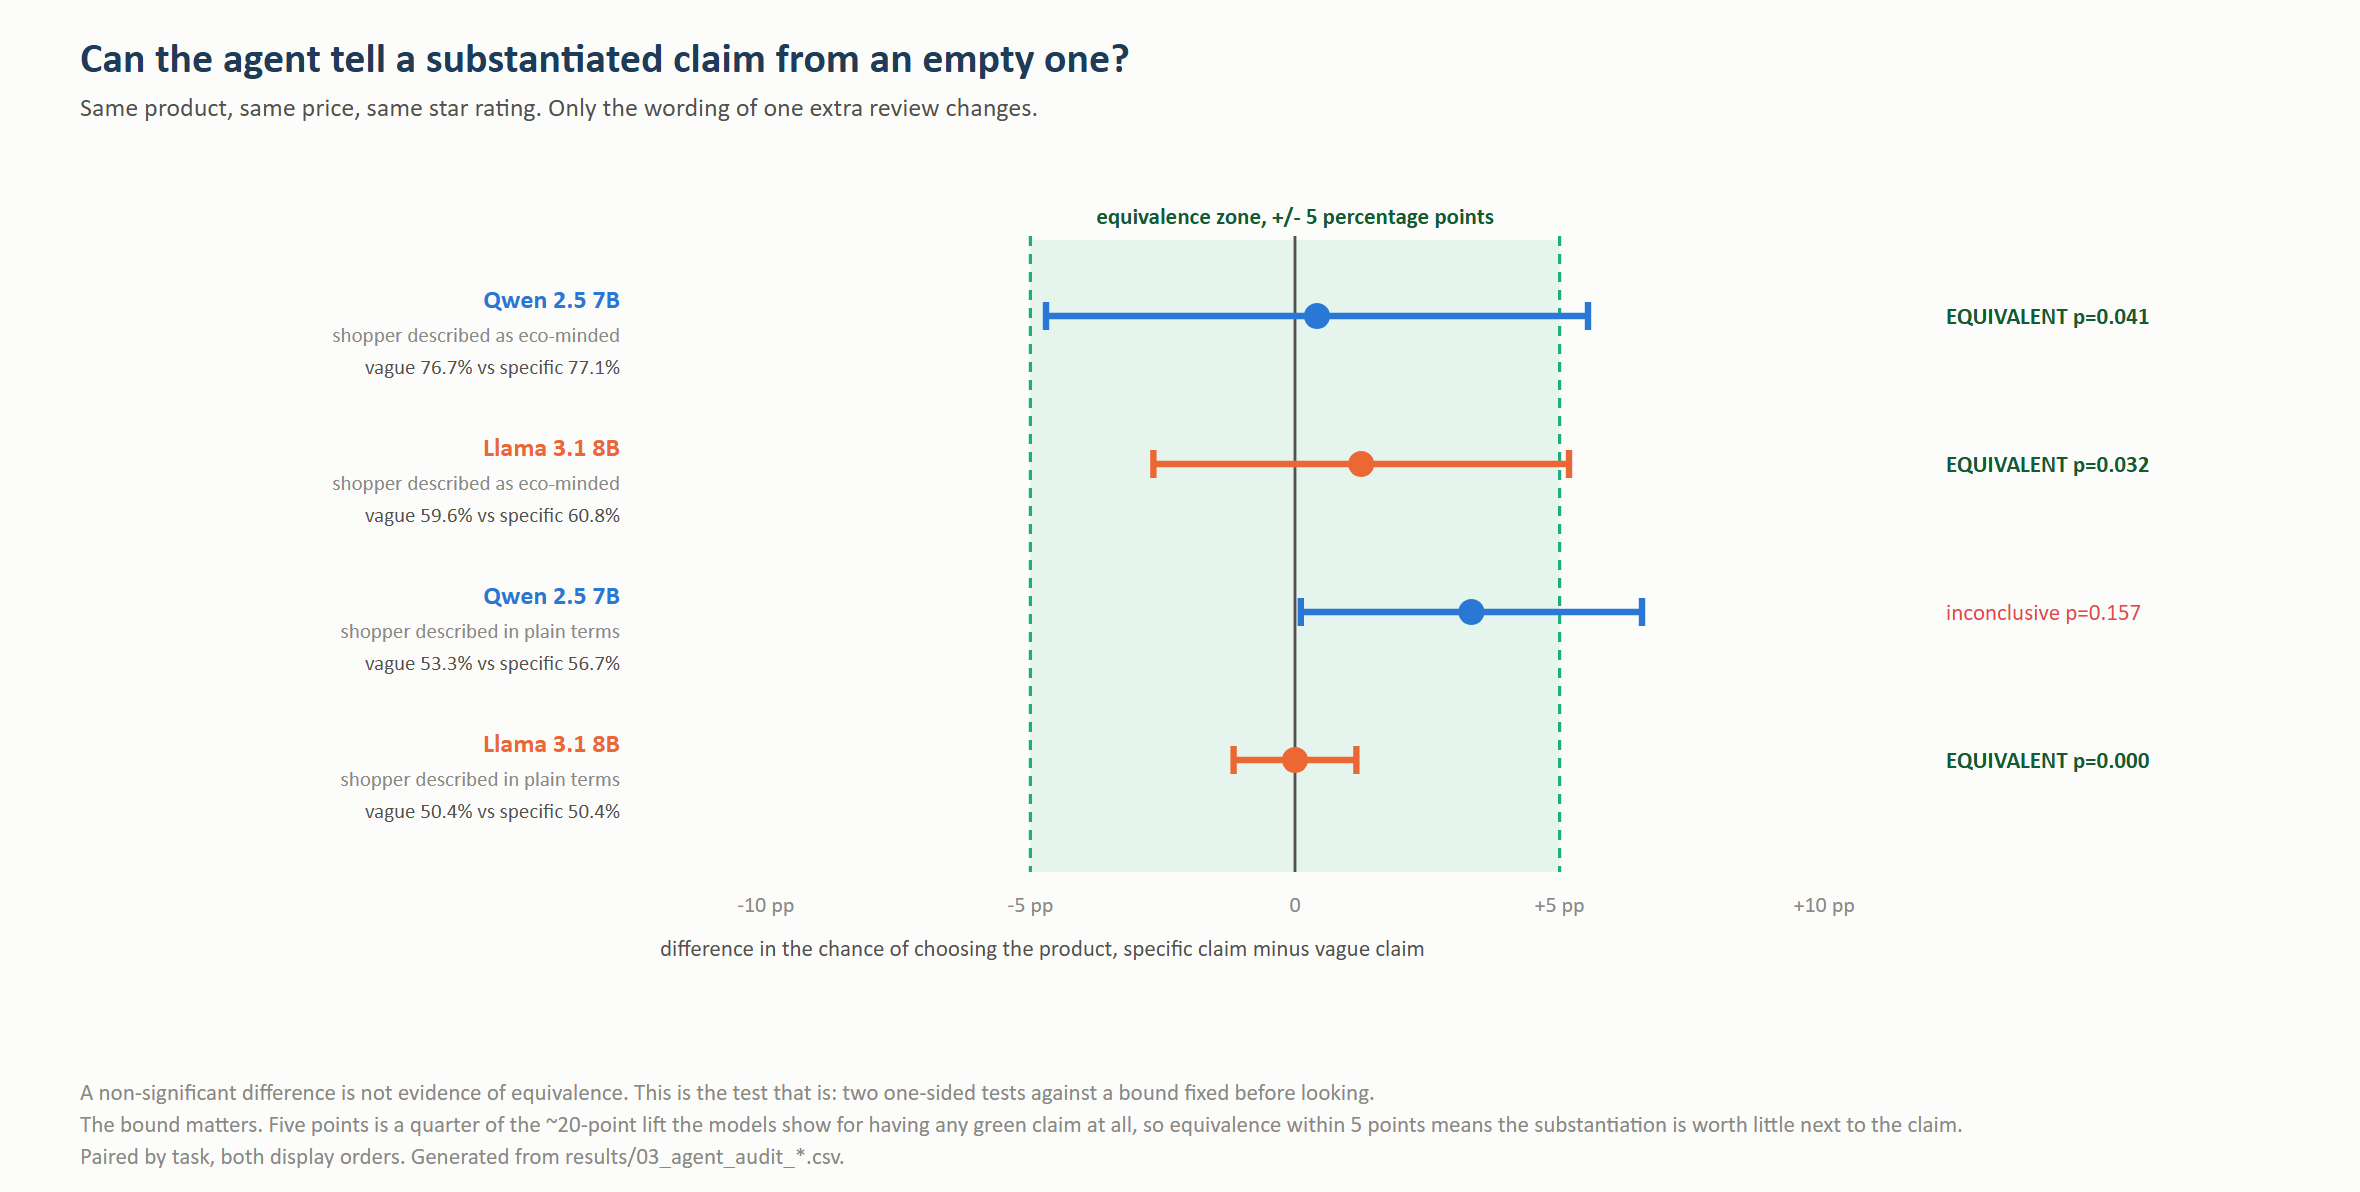
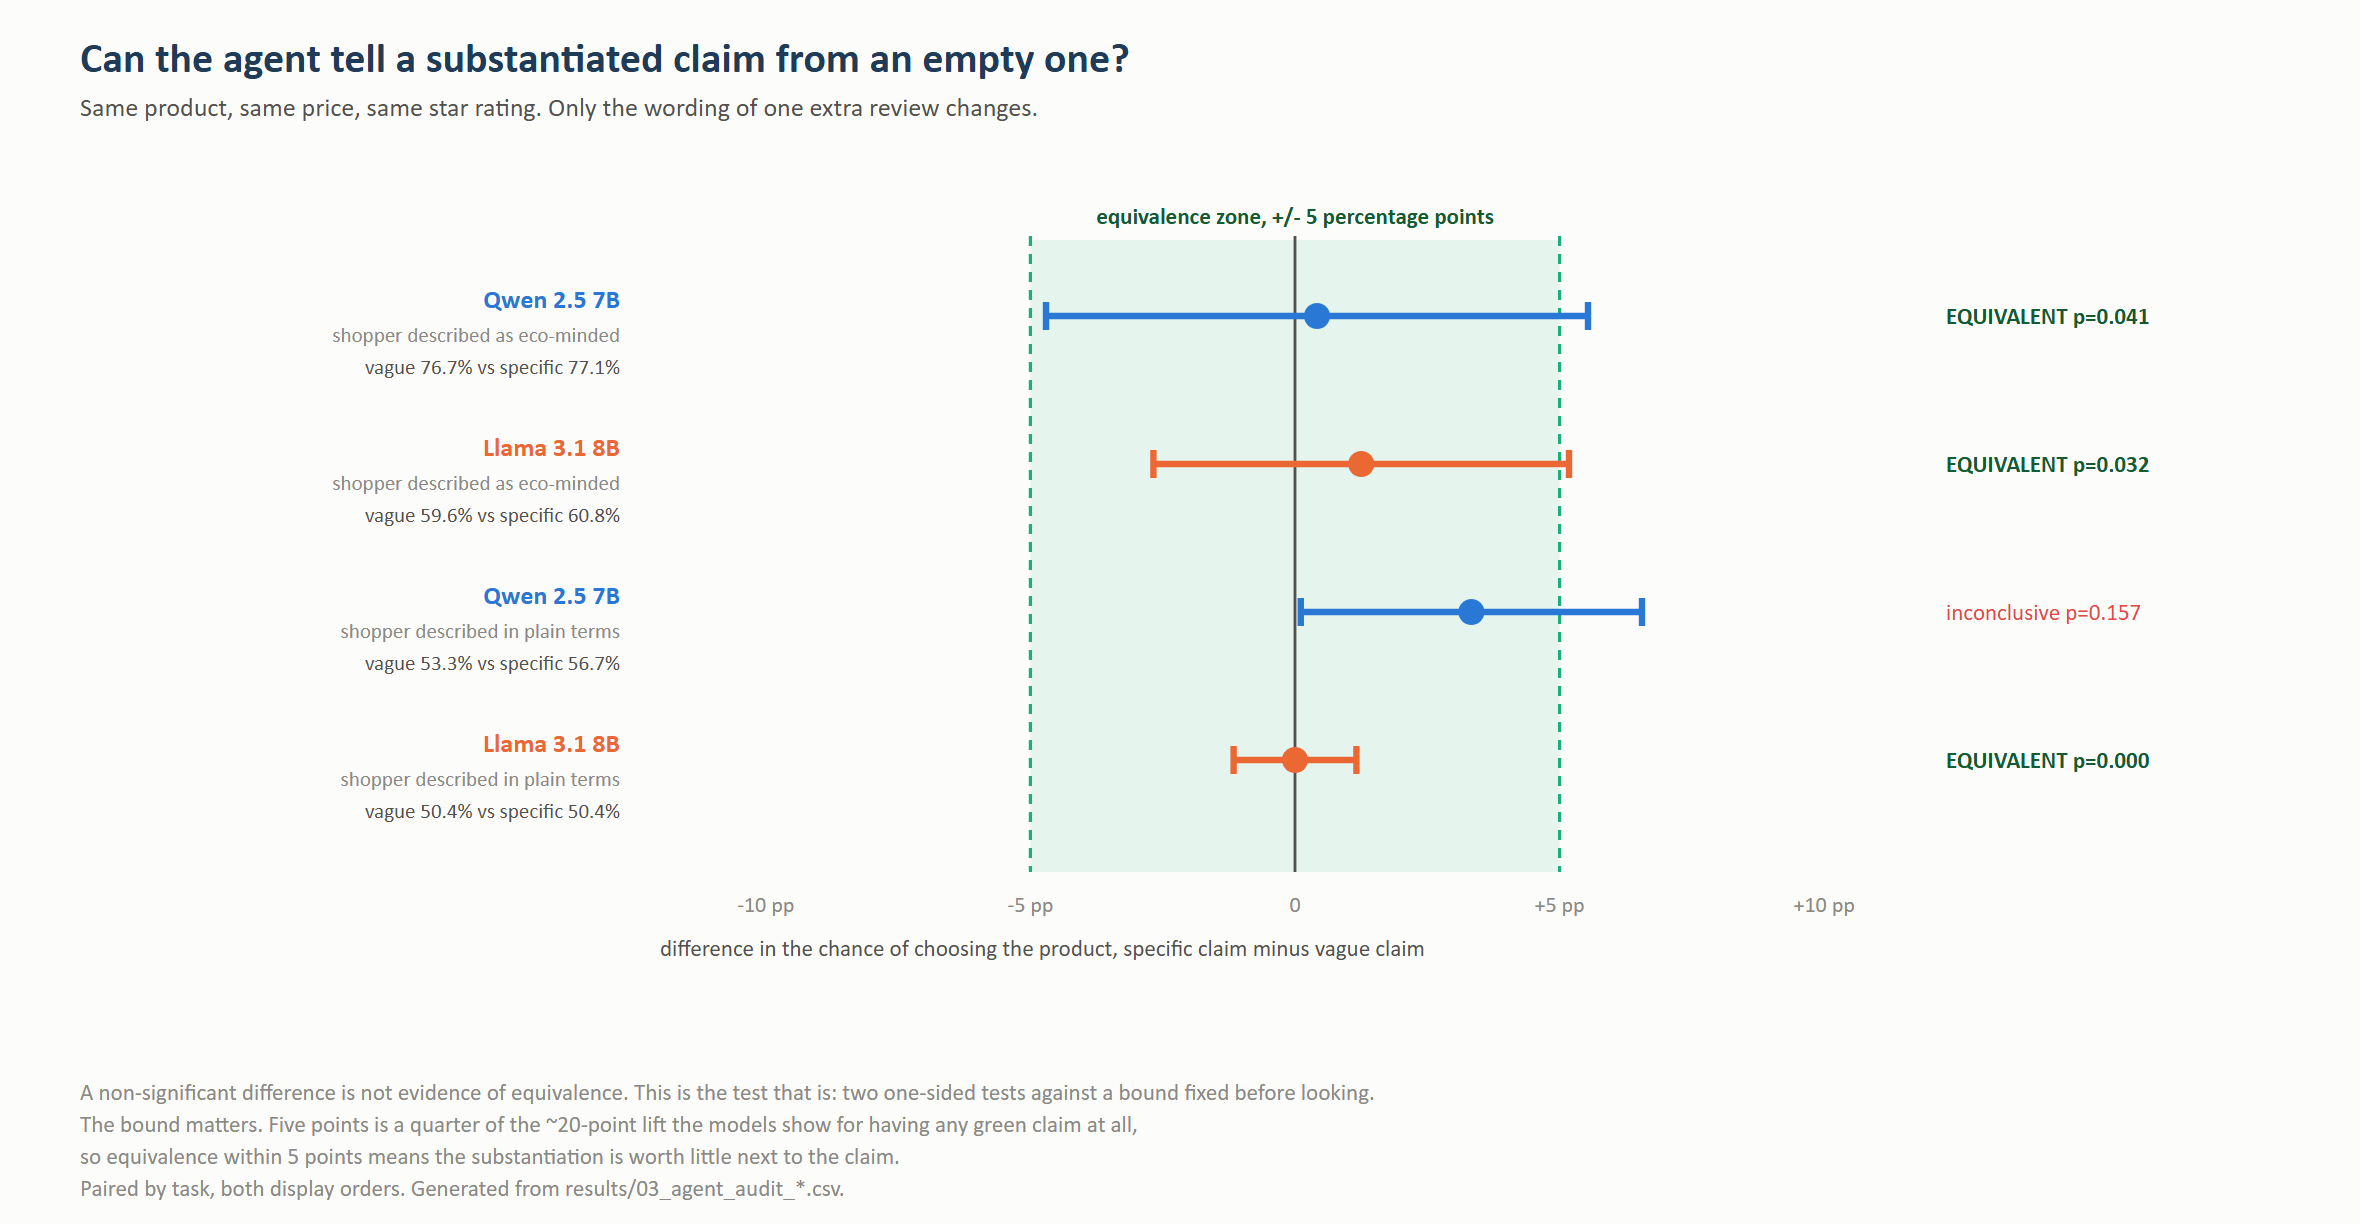
Three chart defects a text check cannot see, and a command that finds them
check_figures.py looks for the two failure modes that passed every text-level
check in this project because the words were right and only their positions
were wrong: a text node running past the canvas edge, and two text nodes whose
boxes intersect.

Fixed here:

  10-diagnosticity  Llama's +0.21 label sat 8px from Qwen's data point and
                    printed through the blue line. Label positions for both
                    series are now worked out together, and the lower one drops
                    below its own point when it would land on the other's
                    marker. The canvas also gained 30px, because the footnote
                    was touching the callout box.

  09-equivalence    a 200-character footnote is about 1230px at 12.3px on an
                    1180px canvas, so it reached the frame edge. Split in two,
                    and the footnote block given a fourth slot.

The checker estimates text width from character count, so it is approximate in
both directions and says so in its own output: a hit means open this one, not
this one fails. It earned that caveat immediately. Its first version required
text-anchor to follow font-size, which it does not, so every end-anchored label
was measured as starting at its x rather than ending there, and it reported
three overlaps in 07-reproduction that are not on the page.

All ten figures here and all nine in the laundry repository now come back
clean, and the PNGs are re-exported at 2x.

diff --git a/check_figures.py b/check_figures.py
@@ -1,0 +1,152 @@
+#!/usr/bin/env python
+# -*- coding: utf-8 -*-
+"""
+Find the two chart defects that reading an SVG's text will never show you.
+
+    python check_figures.py                      # this folder's artefacts/
+    python check_figures.py path/to/artefacts    # somewhere else
+
+WHY THIS EXISTS
+
+Three charts in this project shipped with defects that every text-level check
+passed, because the words were right and only their positions were wrong:
+
+  07-sector-gap        the "stars" axis label printed on top of the footnotes,
+                       two pixels apart
+  08-sector-trend      four labels overlapped into mush and a fifth data point,
+                       Laundry Box's 2.73, was hidden underneath entirely
+  04-fault-injection   a 245-character footnote on a 1000px canvas ran off the
+                       right edge and ended mid-word
+  10-diagnosticity     a value label printed through the other series' line
+
+All four were found by opening the PNG and looking. That does not scale to
+nineteen figures across two repositories, so the two failure modes are checked
+here instead:
+
+  OVERFLOW   a text node whose estimated width runs past the canvas edge
+  OVERLAP    two text nodes whose estimated boxes intersect
+
+WHAT IT CANNOT DO
+
+It estimates text width from character count and font size, because measuring
+properly needs a font engine. So it is approximate in both directions: it will
+miss a near-miss and occasionally flag a pair that reads fine. Treat a hit as
+"open this one and look", not as a verdict. It is a filter, not a judge.
+
+It also knows nothing about whether a label sits on a LINE rather than on other
+text, which is how the diagnosticity defect presented. Lines are not text nodes.
+"""
+
+import glob
+import os
+import re
+import sys
+
+# Rough advance width per character as a fraction of font size, for the
+# Calibri / Segoe UI stack these figures use. Measured by eye against a few
+# rendered labels; good enough to catch an overflow, not good enough to lay out.
+CHAR_W = 0.50
+LINE_H = 1.25
+
+# Parse attributes one at a time rather than in a fixed order. The first
+# version required text-anchor to follow font-size, which it does not, so every
+# end-anchored label was measured as if it started at its x instead of ending
+# there. That put three labels in 07-reproduction 97px to the right of where
+# they are and reported an overlap that is not on the page.
+TAG = re.compile(r"<text\s([^>]*)>([^<]*)</text>")
+ATTR = re.compile(r'([\w-]+)="([^"]*)"')
+SIZE = re.compile(r'<svg[^>]*?width="(\d+)"[^>]*?height="(\d+)"')
+
+
+def boxes(svg):
+    out = []
+    for m in TAG.finditer(svg):
+        at = dict(ATTR.findall(m.group(1)))
+        s = m.group(2).strip()
+        if not s or "x" not in at or "y" not in at:
+            continue
+        x, y = float(at["x"]), float(at["y"])
+        fs = float(at.get("font-size", 12))
+        anchor = at.get("text-anchor", "start")
+        w = len(s) * fs * CHAR_W
+        if anchor == "middle":
+            x0 = x - w / 2
+        elif anchor == "end":
+            x0 = x - w
+        else:
+            x0 = x
+        # y is the baseline; the box sits mostly above it
+        out.append((x0, y - fs * 0.8, x0 + w, y + fs * 0.25, s, fs))
+    return out
+
+
+def overlap(a, b):
+    """True only for an intersection too big to be the width estimate's fault.
+
+    The first version flagged every touch, which made it cry wolf on
+    07-reproduction: an in-bar label anchored to the bar's right edge, with the
+    next label starting just after it, reads fine and overlapped by a few
+    estimated pixels. Calibrated 28 Nov 2026 against figures already checked by
+    eye. A tolerance means it will also miss a genuine near-miss, which is the
+    right way round for a filter whose job is to say "open this one".
+    """
+    ix = min(a[2], b[2]) - max(a[0], b[0])
+    iy = min(a[3], b[3]) - max(a[1], b[1])
+    if ix <= 0 or iy <= 0:
+        return False
+    narrower = min(a[2] - a[0], b[2] - b[0])
+    return ix > max(12.0, 0.22 * narrower)
+
+
+def check(path):
+    svg = open(path, encoding="utf-8").read()
+    m = SIZE.search(svg)
+    if not m:
+        return ["no width/height on the <svg> element"]
+    W, H = int(m.group(1)), int(m.group(2))
+    bs = boxes(svg)
+    issues = []
+    for b in bs:
+        # 4% of the canvas, not 2px. At CHAR_W=0.50 a 200-character footnote
+        # carries about 50px of estimation error on its own.
+        if b[2] > W * 1.04:
+            issues.append("OVERFLOW  %4.0fpx past the right edge: %r"
+                          % (b[2] - W, b[4][:58]))
+        if b[0] < -2:
+            issues.append("OVERFLOW  %4.0fpx past the left edge: %r"
+                          % (-b[0], b[4][:58]))
+        if b[3] > H + 2:
+            issues.append("OVERFLOW  below the bottom edge: %r" % b[4][:58])
+    for i in range(len(bs)):
+        for j in range(i + 1, len(bs)):
+            if overlap(bs[i], bs[j]):
+                issues.append("OVERLAP   %r / %r" % (bs[i][4][:34], bs[j][4][:34]))
+    return issues
+
+
+def main():
+    root = sys.argv[1] if len(sys.argv) > 1 else os.path.join(
+        os.path.dirname(os.path.abspath(__file__)), "artefacts")
+    files = sorted(glob.glob(os.path.join(root, "*.svg")))
+    if not files:
+        sys.exit("no SVGs in %s" % root)
+    bad = 0
+    for f in files:
+        issues = check(f)
+        name = os.path.basename(f)
+        if not issues:
+            print("  ok    %s" % name)
+            continue
+        bad += 1
+        print("  LOOK  %s" % name)
+        for i in issues[:6]:
+            print("          %s" % i)
+        if len(issues) > 6:
+            print("          ... and %d more" % (len(issues) - 6))
+    print("\n%d figure(s), %d worth opening" % (len(files), bad))
+    print("Width is estimated, not measured. A hit means look, not fail.")
+    return 1 if bad else 0
+
+
+if __name__ == "__main__":
+    sys.exit(main())

diff --git a/make_diagnosticity_chart.py b/make_diagnosticity_chart.py
@@ -46,7 +46,9 @@ def main():
     if not series:
         raise SystemExit("no diagnosticity results found")
 
-    W, H = 1060, 560
+    # 590, not 560. The footnote sat 8px under the callout box and touched it.
+    # Found 28 Nov 2026 by looking at the rendered PNG. Added 28 Nov 2026.
+    W, H = 1060, 590
     L, R, TOP, BOT = 230, W - 230, 150, 400
     vals = [v for _, pts in series.values() for v in pts if v is not None]
     lo, hi = min(vals + [0]) - 0.4, max(vals) + 0.4
@@ -73,6 +75,27 @@ def main():
             b.append(txt(X(i), BOT + 28 + j * 15, line, 11.5,
                          C[7] if bold else INK2, "middle", bold=bold))
 
+    # Label positions are worked out across BOTH series before any is drawn, so two
+    # that land on the same x cannot print on top of each other. At "accurate about
+    # half" Qwen's +0.62 and Llama's +0.21 are 14px apart and both offset upward by
+    # 14, which put one exactly over the other. Found by looking at the PNG.
+    names = list(series)
+    lab_y = {}
+    for i in range(len(ORDER)):
+        here = [(n, series[n][1][i]) for n in names if series[n][1][i] is not None]
+        for n, v in here:
+            lab_y[(n, i)] = Y(v) - 14 if v >= 0 else Y(v) + 24
+        if len(here) == 2:
+            (n1, v1), (n2, v2) = here
+            lo_n, lo_v = (n1, v1) if v1 < v2 else (n2, v2)
+            hi_n, hi_v = (n2, v2) if v1 < v2 else (n1, v1)
+            # The clash is not label against label, it is the lower label against
+            # the HIGHER SERIES' marker and line. At "accurate about half" Llama's
+            # +0.21 label landed 8px from Qwen's data point and printed through
+            # the blue line. Compare against the point, not the other label.
+            if abs(lab_y[(lo_n, i)] - Y(hi_v)) < 18:
+                lab_y[(lo_n, i)] = Y(lo_v) + 24
+
     for name, (col, pts) in series.items():
         path = " ".join("%s %.1f %.1f" % ("M" if i == 0 else "L", X(i), Y(v))
                         for i, v in enumerate(pts) if v is not None)
@@ -81,7 +104,7 @@ def main():
             if v is None:
                 continue
             b.append('<circle cx="%.1f" cy="%.1f" r="6" fill="%s"/>' % (X(i), Y(v), col))
-            b.append(txt(X(i), Y(v) - 14 if v >= 0 else Y(v) + 24, "%+.2f" % v, 11.5,
+            b.append(txt(X(i), lab_y[(name, i)], "%+.2f" % v, 11.5,
                          col, "middle", bold=True))
         last = next(i for i in range(len(pts) - 1, -1, -1) if pts[i] is not None)
         b.append(txt(X(last) + 16, Y(pts[last]) + 4, name, 12.5, col, "start", bold=True))

diff --git a/make_equivalence_chart.py b/make_equivalence_chart.py
@@ -65,7 +65,9 @@ def main():
                          "mean": mean, "lo": mean - 1.96 * se, "hi": mean + 1.96 * se,
                          "p": p, "eq": p < .05})
 
-    W, H = 1180, 150 + len(rows) * 74 + 150
+    # +166, not +150: the footnote block is four lines now that the bound
+    # sentence is split in two, and the fourth was landing on the third.
+    W, H = 1180, 150 + len(rows) * 74 + 166
     L, R = 330, W - 215
     span = 0.12
 
@@ -109,9 +111,13 @@ def main():
 
     note = ("A non-significant difference is not evidence of equivalence. This is the test that "
             "is: two one-sided tests against a bound fixed before looking.")
-    note2 = ("The bound matters. Five points is a quarter of the ~20-point lift the models show "
-             "for having any green claim at all, so equivalence within 5 points means the "
-             "substantiation is worth little next to the claim.")
+    # Split in two. As one line it is about 200 characters, roughly 1230px at
+    # 12.3px on a 1180px canvas, so it reached the right frame edge and the last
+    # words sat on it. Found 28 Nov 2026 by check_figures.py.
+    note2 = ("The bound matters. Five points is a quarter of the ~20-point lift the models "
+             "show for having any green claim at all,")
+    note2b = ("so equivalence within 5 points means the substantiation is worth little next "
+              "to the claim.")
     out = ['<svg xmlns="http://www.w3.org/2000/svg" width="%d" height="%d" viewBox="0 0 %d %d" '
            'font-family="%s">' % (W, H, W, H, FONT),
            '<rect width="%d" height="%d" fill="%s"/>' % (W, H, SURFACE),
@@ -120,8 +126,9 @@ def main():
            txt(40, 58, "Same product, same price, same star rating. Only the wording of one "
                        "extra review changes.", 13, INK2),
            "\n".join(b),
-           txt(40, H - 46, note, 11.5, MUTED),
-           txt(40, H - 30, note2, 11.5, MUTED),
+           txt(40, H - 62, note, 11.5, MUTED),
+           txt(40, H - 46, note2, 11.5, MUTED),
+           txt(40, H - 30, note2b, 11.5, MUTED),
            txt(40, H - 14, "Paired by task, both display orders. Generated from "
                            "results/03_agent_audit_*.csv.", 11.5, MUTED),
            "</svg>"]
